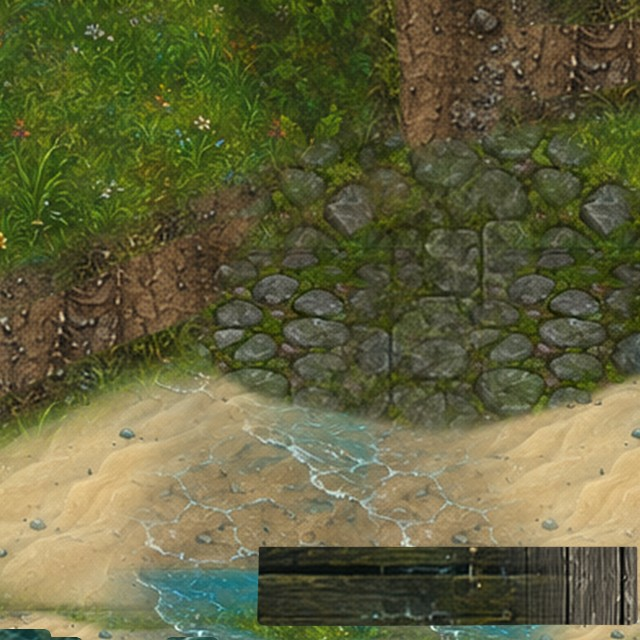
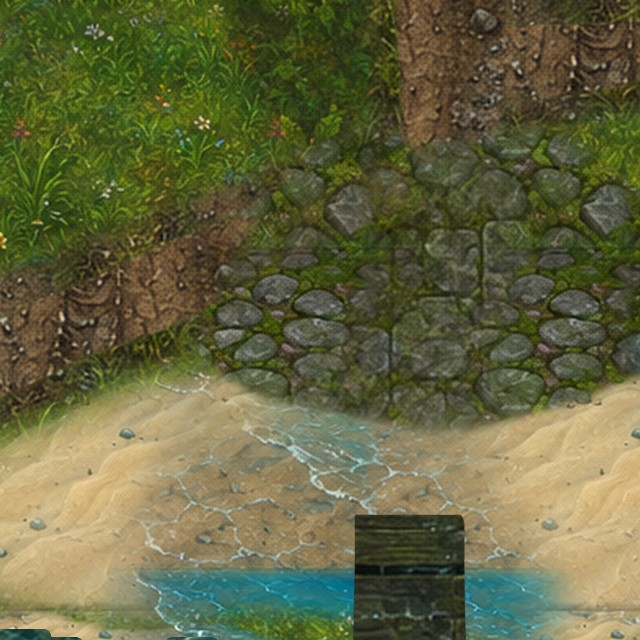
Town pieces back with the right art: Saltspur's mess hall (its inn) stands at last with the innkeeper at its door, Southshore gets a human village inn instead of the Horde crossroads one and a dock that runs out to its ship, Tarren Mill's town hall and well, the Hillsbrad war tent, Booty Bay's wareh
Claude-Session: https://claude.ai/code/session_015TQrViPbuGDeiupTWSG9TT

Changed region(s): [[0.375, 0.7812, 1.0, 1.0]]

diff --git a/tools/handbuilt_saltspur_landing.py b/tools/handbuilt_saltspur_landing.py
@@ -162,7 +162,7 @@ COBBLE = []
 NPC_POSITIONS = {
     "saltspur_scout":            (9, 27),    # Scout Vel Ashgrave, watching the bluff cut
     "saltspur_quartermaster":    (21, 16),   # Quartermaster Dreg, up at the stores
-    "saltspur_innkeeper":        (24, 31),   # Innkeeper Vara Dunn, at the one timber building
+    "saltspur_innkeeper":        (31, 22),   # Innkeeper Vara Dunn, at the mess hall door (moved 14 Nov 2026 with the hall)
     "saltspur_bosun":            (32, 28),   # Bosun Kaz Tidewright, at the landward end of the jetty  # moved off shallow water 7 Nov
     "saltspur_windrider_master": (33, 22),   # Wind Rider Keeper Ozra, on the rock above the yard
     "saltspur_shipwright":       (28, 43),   # Shipwright Oona Keelsplice, at the hauled-up hull
@@ -192,7 +192,10 @@ def dress(L):
     b("orc_watch_tower", 36, 32, 11)
 
     # ---- the landing yard: the one timber building, the stores under the tarp
-    b("orc_mess_hall", 24, 33, 11, nudge=2)            # the inn: a beachhead's inn is its mess
+    # The inn: a beachhead's inn is its mess. It never appeared (its spot was the road and the
+    # innkeeper); it stands now in the north yard on the rock above the jetty, the innkeeper at its
+    # door. The south ground belongs to the officers' house.
+    b("orc_mess_hall", 35, 20, 9, nudge=0)
     b("orc_supply_store", 20, 18, 10, nudge=2)
     b("orc_quartermaster_post", 25, 14, 9, nudge=2)
     p("ek_scarlet_crates", 26, 26, 4)
@@ -205,7 +208,9 @@ def dress(L):
     # SPRITE, so each one sat on a brown oval of its own that had nothing to do
     # with the ground under it. On shingle that reads as a bug. The orc set from
     # the 30-building sheet is the newer painterly family and has no baked ground.
-    b("orc_healer_house", 31, 37, 9, nudge=2)
+    # The healer's house has no room on this strand: its spot is the road and every free patch is
+    # taken by the mess hall or the officers' house. Left out (Kyle, 12 Nov: not every town needs
+    # every building).
     b("orc_officers_house", 23, 40, 9, nudge=2)
     # Pulled in off the bluff: at x=19 the strand is barely three tiles wide here
     # and the bluff planting grew straight through the roof.
@@ -217,8 +222,8 @@ def dress(L):
 
     # ---- the bluff cut
     b("orc_great_gatehouse", 6, 28, 12, solid=False, road_ok=True, nudge=0)
-    b("orc_watch_tower", 10, 20, 11)
-    b("orc_watch_tower", 10, 36, 11)
+    b("orc_watch_tower", 10, 20, 11, nudge=4)
+    b("orc_watch_tower", 10, 36, 11, nudge=4)
 
 
 def build_layout():

diff --git a/tools/handbuilt_camp_taurajo.py b/tools/handbuilt_camp_taurajo.py
@@ -167,13 +167,14 @@ def dress(L):
     for k in range(6):
         a = math.radians(30 + 60 * k)
         P("br_tauren_tipi", int(round(32 + 17 * math.cos(a))), int(round(29 + 12 * math.sin(a))), 7, nudge=3)
-    # ---- west: tanner, carver, trader
-    B("hide_tanners_hut", 9, 30, 7)
-    B("generic_hut_a", 11, 22, 6)
-    B("generic_hut_b", 7, 37, 6)
+    # ---- west: tanner, carver, trader. Tauren buildings (Kyle, 14 Nov 2026: "do proper art in the
+    # proper towns"); these were the generic Valley of Trials huts.
+    B("tau_tannery", 9, 30, 7, nudge=2)
+    B("tau_carver_shop", 11, 22, 6, nudge=2)
+    B("tau_trading_post", 7, 37, 6, nudge=2)
     D("vot_hide_rack", 14, 33, 3)
     # ---- south-west: the spring - healer's tent, the totem-carver's yard
-    B("generic_tent_b", 24, 47, 5)
+    B("tau_herb_hut", 24, 47, 5, nudge=2)        # the healer
     P("br_tauren_totem", 15, 43, 7)
     D("vot_trail_cairn", 24, 41, 3)
     for (x, y) in [(9, 47)]:
@@ -185,7 +186,7 @@ def dress(L):
         D("vot_palisade", x, y, 3, solid=True, nudge=0)
     P("br_hitching_trough", 53, 30, 3)
     # ---- south-east: quartermaster, granary, the orc liaison
-    B("generic_tent_a", 38, 24, 5)
+    B("tau_storehouse", 38, 24, 5, nudge=2)      # the quartermaster
     B("taurajo_granary", 40, 50, 8)
     B("plain_orc_house_a", 46, 45, 5)
     D("vot_crate_stack", 36, 48, 3)

diff --git a/tools/handbuilt_hillsbrad_west.py b/tools/handbuilt_hillsbrad_west.py
@@ -86,7 +86,9 @@ _RS = K.RoadSet(ROADS)
 road_dist = _RS.dist
 
 # Southshore's quay, laid over the south bay: (x0, x1, y0, y1)
-DECKS = [(88.0, 100.0, 137.0, 139.6)]
+# Southshore's dock runs OUT into the water to the moored ship. It was a strip along the beach above
+# the waterline, a plank lying on the sand (backlog [72]).
+DECKS = [(91.0, 94.6, 136.0, 146.6)]
 
 
 def paved(gx, gy):
@@ -255,7 +257,7 @@ def dress(L):
     p(RU + "ruin_tower_skulls.png", 46, 20, 9, solid=True, nudge=0)
     b("forsaken_house_small", 40, 26, 8, nudge=2)
     b("forsaken_house_small", 52, 26, 8, nudge=2)
-    b("command_war_tent", 46, 30, 8, nudge=2)
+    b("command_war_tent", 46, 30, 8, nudge=5)
     p("ek_forsaken_banner", 42, 21, 5)
     p("ek_forsaken_banner", 51, 21, 5)
     p("ek_farm_well", 46, 27, 4)
@@ -325,7 +327,9 @@ def dress(L):
     p("ek_signpost", 32, 90, 4)
 
     # ---- Southshore: the Alliance port. Hostile ground - no inn for you.
-    b("crossroads_inn", 90, 124, 10, nudge=2)
+    # A human village inn, not the Horde crossroads one this had (which was refused anyway: an
+    # NPC stands on its spot). Kyle, 14 Nov 2026: "do proper art in the proper towns."
+    b("ek_village_inn", 90, 124, 10, nudge=8)
     b("ek_cottage_medium", 102, 126, 9, nudge=2)
     b("ek_border_watchtower", 84, 132, 9, nudge=2)
     b("ek_boathouse", 100, 134, 7, nudge=2)

diff --git a/tools/handbuilt_aspen_wilderness.py b/tools/handbuilt_aspen_wilderness.py
@@ -631,18 +631,18 @@ def dress(L):
         p(A("asp_red_drift"), x, y, 2, solid=False)
 
     # ---- beaver works on the benches ---------------------------------------------------------------------
-    p(A("asp_beaver_lodge"), 146, 42, 4)
+    p(A("asp_beaver_lodge"), 146, 42, 4, shore_ok=True)     # a lodge stands in the water
     p(A("asp_beaver_dam"), 141, 47, 3)
     p(A("asp_beaver_dam"), 152, 36, 3)
-    p(A("asp_beaver_lodge"), 60, 106, 4)
+    p(A("asp_beaver_lodge"), 60, 106, 4, shore_ok=True)
     p(A("asp_beaver_dam"), 55, 110, 3)
 
     # ---- the tauren push south: a working camp, not a settlement ----------------------------------------
-    p(A("tau_hide_tent_small"), 88, 70, 5)
-    p(A("tau_hide_tent_small"), 96, 72, 5)
+    p(A("tau_hide_tent_small"), 88, 70, 5, nudge=4)
+    p(A("tau_hide_tent_small"), 96, 72, 5, nudge=4)
     p(A("tau_cook_fire"), 92, 74, 3)
     p(A("tau_timber_stack"), 84, 76, 3)
-    p(A("tau_drying_rack"), 100, 76, 4)
+    p(A("tau_drying_rack"), 100, 76, 4, nudge=4)
     p(A("tau_totem_carved"), 92, 66, 6)
     p(A("tau_hitching_post"), 82, 70, 3)
 

diff --git a/tools/handbuilt_hillsbrad_east.py b/tools/handbuilt_hillsbrad_east.py
@@ -249,14 +249,14 @@ def dress(L):
     T.grove(L, 18, 76, 6, 6, 6, OAKS, seed=2)
 
     # ---- Tarren Mill: the Forsaken town, the only friendly ground in the zone
-    b("forsaken_town_hall", 62, 25, 10, nudge=2)
+    b("forsaken_town_hall", 62, 25, 10, nudge=6)
     b("forsaken_house_medium", 54, 30, 9, nudge=2)
     b("forsaken_house_small", 70, 27, 8, nudge=2)
     b("forsaken_house_small", 68, 36, 8, nudge=2)
     b("forsaken_house_small", 52, 38, 8, nudge=2)
     p("ek_forsaken_banner", 57, 26, 5)
     p("ek_forsaken_banner", 67, 32, 5)
-    p("ek_farm_well", 62, 34, 4)
+    p("ek_farm_well", 62, 34, 4, nudge=4)
     p("ek_plague_cauldron", 66, 24, 4)
     p("ek_plague_cart", 72, 32, 4)
     p("ek_signpost", 52, 28, 4)

diff --git a/tools/qa_authored_pieces_appear.py b/tools/qa_authored_pieces_appear.py
@@ -22,7 +22,7 @@ sys.path.insert(0, os.path.join(ROOT, "tools"))
 os.chdir(ROOT)
 
 #: Pieces missing today. Lower it when you site some; never raise it.
-CEILING = 58       # falls as pieces are re-sited or cut; it can only fall. 131 on 13 Nov 2026, 58 on 14 Nov (Hammerfall and Arathi done).
+CEILING = 33       # falls as pieces are re-sited or cut; it can only fall. 131 on 13 Nov 2026, 58 on 14 Nov (Hammerfall and Arathi done).
 #: Early-game towns must have every building they were given.
 MUST_BE_WHOLE = ("brill", "razor_hill", "orgrimmar", "durotar", "deathknell", "undercity", "vot")
 

diff --git a/tools/handbuilt_tarren_mill.py b/tools/handbuilt_tarren_mill.py
@@ -204,7 +204,7 @@ def dress(L):
     # with the wheel sitting out over the channel where the art already puts its own water.
     b("ek_watermill", 41, 57, 10, nudge=1)
     b("ek_granary", 37, 68, 6, nudge=1)       # was drawn through the inn, nine tiles west of here
-    b("ek_millstone_shelter", 31, 59, 5, nudge=1)
+    b("ek_millstone_shelter", 31, 59, 5, nudge=4)
     b("ek_mill_sluice", 44, 15, 6, nudge=0)                        # the weir that feeds the race
     p("ek_signpost", 36, 81, 4)
 

diff --git a/tools/handbuilt_silverpine_north.py b/tools/handbuilt_silverpine_north.py
@@ -191,7 +191,7 @@ def dress(L):
     p("ek_forsaken_banner", 84, 8, 5)
     b("forsaken_house_small", 68, 14, 8, nudge=2)                 # the barracks
     b("forsaken_house_medium", 92, 13, 9, nudge=2)                # the captain's hall
-    b("gallows_post", 62, 26, 7, nudge=2)
+    b("gallows_post", 62, 26, 7, nudge=4)
     p("ek_plague_cart", 90, 22, 4)
     p("ek_plague_cauldron", 74, 12, 3)                            # Apothecary Pell's pot
     p("ek_forsaken_banner", 78, 26, 5)

diff --git a/tools/handbuilt_western_tirisfal.py b/tools/handbuilt_western_tirisfal.py
@@ -186,7 +186,7 @@ def dress(L):
     p("ek_thorn_bush", 96, 91, 2, solid=False)
     # ---- Brill's west gate
     # (no orc palisade gatehouse in Tirisfal - world/exit_frames.py stands a lychgate over the road)
-    b("watchtower", 105, 80, 9, nudge=1)
+    b("watchtower", 105, 80, 9, nudge=4)
     p("ek_forsaken_banner", 109, 82, 5)
     p("ek_forsaken_banner", 109, 84, 5, nudge=1)
     p("ek_signpost", 106, 93, 4, nudge=1)

diff --git a/tools/handbuilt_gromgol.py b/tools/handbuilt_gromgol.py
@@ -266,8 +266,8 @@ def dress(L):
     for (x, y) in [(55, 24), (22, 49), (45, 49), (50, 10)]:
         L.prop("stv_boulder_mossy", x, y, 4, path_dir=SP)
     # the troll stonework the camp was pitched on top of
-    J("stv_troll_ziggurat_block", 31, 50, 8)
-    J("stv_troll_idol_head", 51, 17, 8)
+    J("stv_troll_ziggurat_block", 31, 50, 8, nudge=8)
+    J("stv_troll_idol_head", 51, 17, 8, nudge=5)
 
 
 def build_layout():

diff --git a/tools/handbuilt_booty_bay.py b/tools/handbuilt_booty_bay.py
@@ -289,7 +289,7 @@ def dress(L):
     D("rf_supply_crates", 37, 36, 3)
 
     # ---- the east walk: the working side, clear of all three pier junctions ----------------------
-    B("bb_warehouse", 41, 42, 8, nudge=2)
+    B("bb_warehouse", 41, 42, 8, nudge=5)
     B("gg_supply_store", 40, 31, 5, nudge=2)
     L.prop("stv_fish_rack", 39, 39, 4, path_dir=SP)
     L.prop("stv_fish_crates", 40, 29, 3, path_dir=SP)
